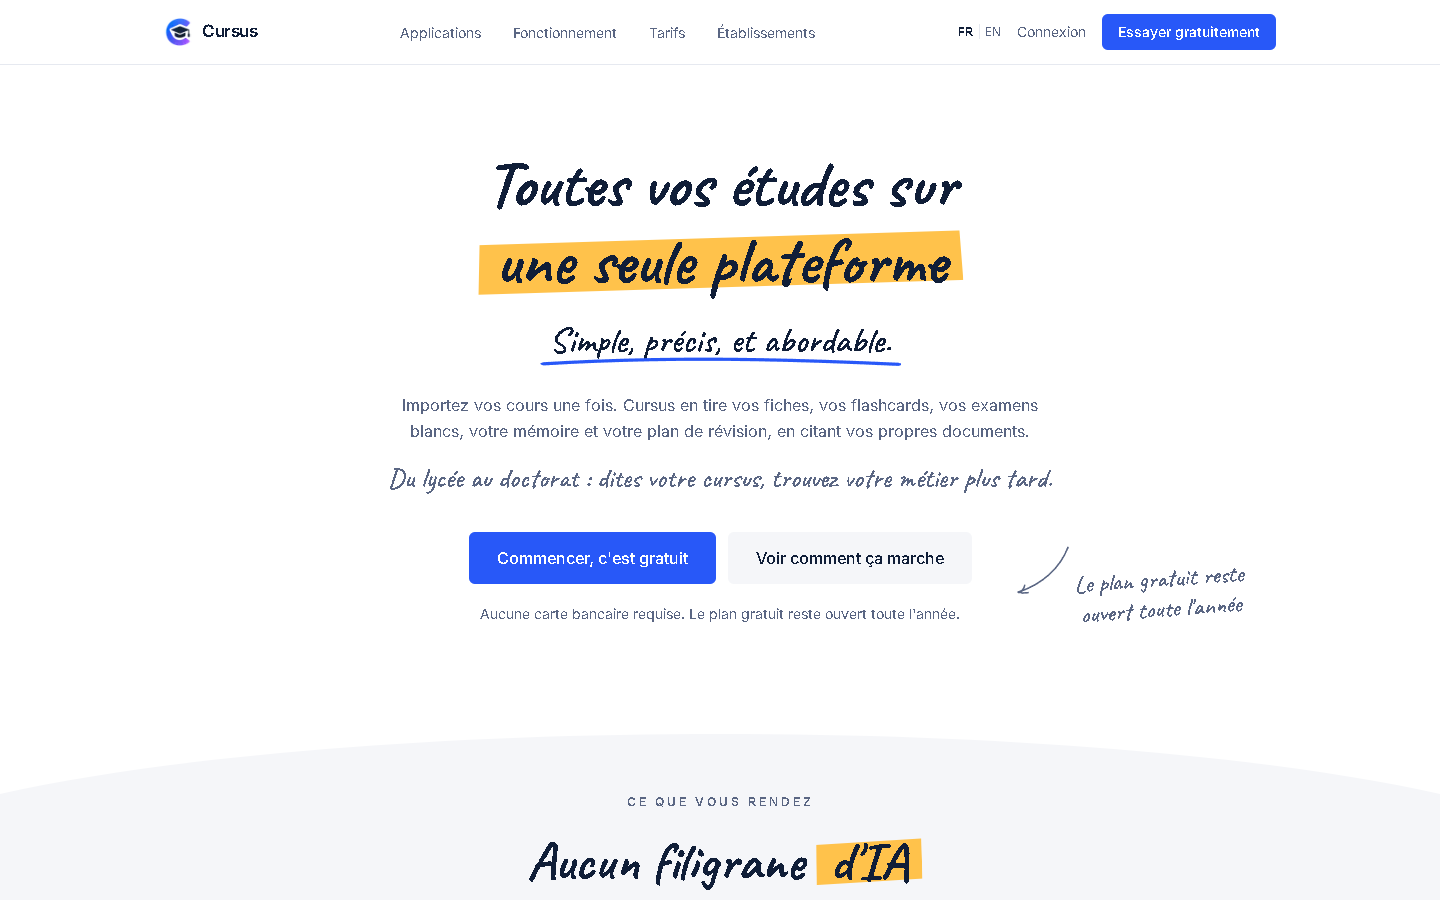
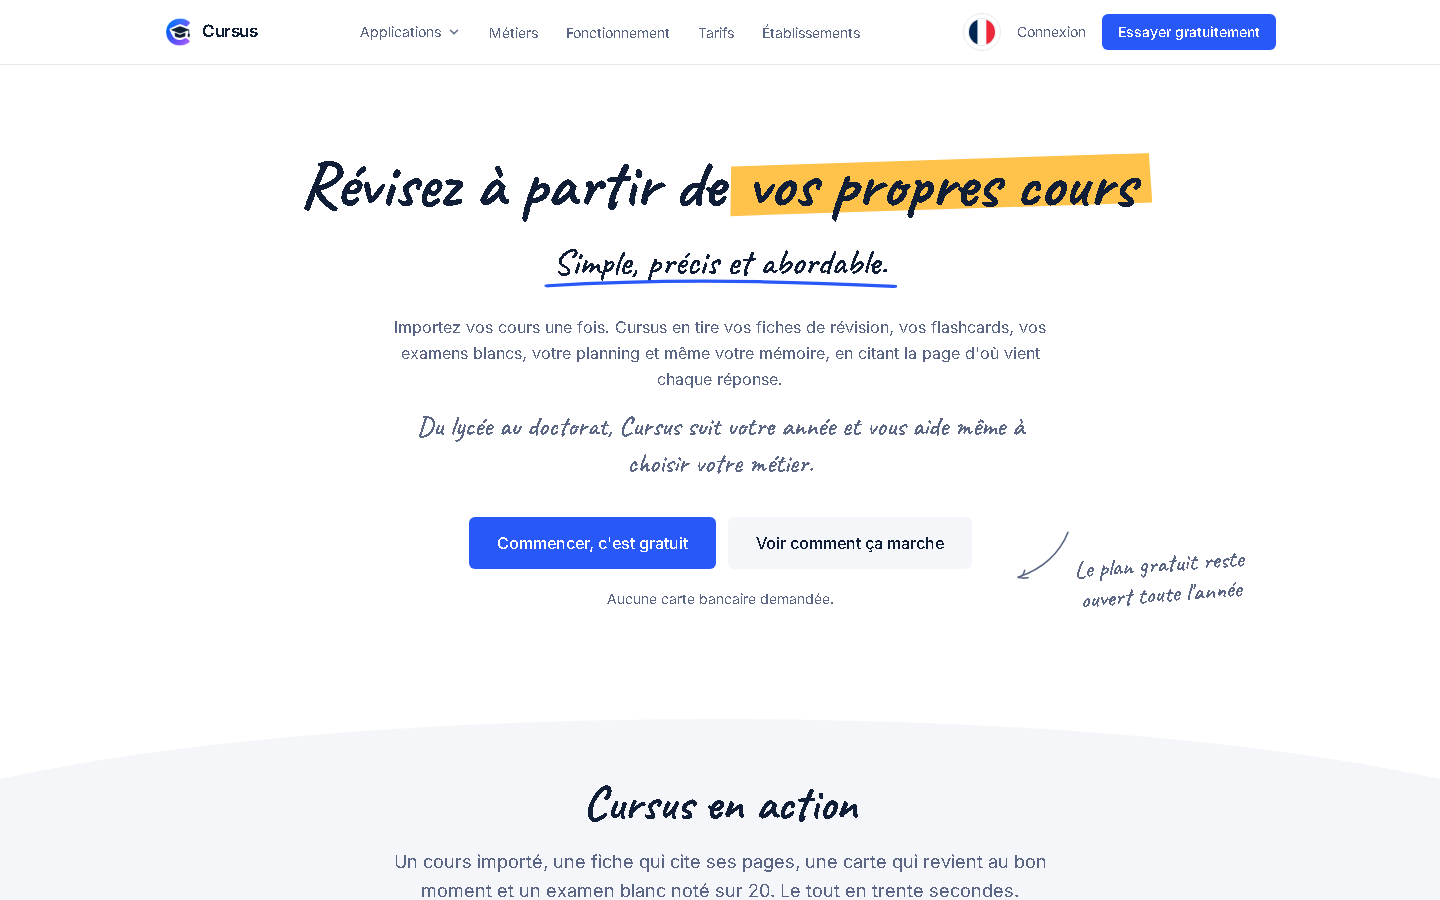
docs: the profile with the demo, today's screens and today's plans

diff --git a/profile/README.md b/profile/README.md
@@ -1,10 +1,16 @@
 # Cursus
 
-**All of your studies on one platform.**
+**Revise from your own courses.**
 
-A student imports their courses once. Cursus draws their summary sheets, their
-flashcards, their mock exams and their revision plan out of those courses, and
-cites their own documents rather than an unknown source.
+A student imports their courses once. Cursus turns them into revision sheets,
+flashcards, mock exams and a revision plan, and every answer cites the page of
+the course it comes from.
+
+https://github.com/user-attachments/assets/cca2687b-b502-4c67-a9d9-3cdec40d0367
+
+Thirty seconds of the product: a course dropped in, a sheet that cites its
+pages, a card that comes back just before it is forgotten, and a mock exam
+marked out of twenty. The home page plays it in each of its seven languages.
 
 ![The Cursus home page](images/landing.png)
 
@@ -12,11 +18,13 @@ cites their own documents rather than an unknown source.
 
 ![The courses screen](images/product.png)
 
-A course is fed once, from a handout, a photo of the board or a recording.
-Thirty-six applications read it, and every answer cites the passage it came
-from. Nothing that comes out carries a watermark.
+A course is fed once, from a handout, a photo of the board or a recording of
+the lecture. Thirty-six applications read it, and the blue button asks what the
+student came to do: understand, remember, practise, prepare the exam, hand in
+work or organise the year. Every answer cites the passage it came from, and
+nothing that comes out carries a watermark.
 
-![The thirty-six applications](images/applications.png)
+![What do you want to do?](images/applications.png)
 
 |                                                                                                                     |                                                                       |
 | ------------------------------------------------------------------------------------------------------------------- | --------------------------------------------------------------------- |
@@ -27,10 +35,17 @@ from. Nothing that comes out carries a watermark.
 
 ## What it costs
 
-The free plan is a real week: three generations, and a short sponsor that gives
-one back. Everything that never calls a model, half the catalogue, stays free
-and unlimited. Paid plans lift the week and drop the queue. Schools can give
-their students a plan through Campus.
+The free plan stays open all year, without a card: study sheets, flashcards and
+three more applications, three generations a week and up to five more a day for
+a short video, and every other application to try a few times a day. The
+Student plan opens twenty-four applications with no wait, the Pro plan
+thirty-five. The last one, CampusAI, comes with a school's Campus, through
+which a school also gives its students a plan.
+
+## Languages
+
+The site, the app and the Campus speak French, English, Spanish, Portuguese,
+German, Italian, and Arabic laid out right to left.
 
 The roadmap is on the
 [organisation board](https://github.com/orgs/CursusFR/projects/6), ordered by
